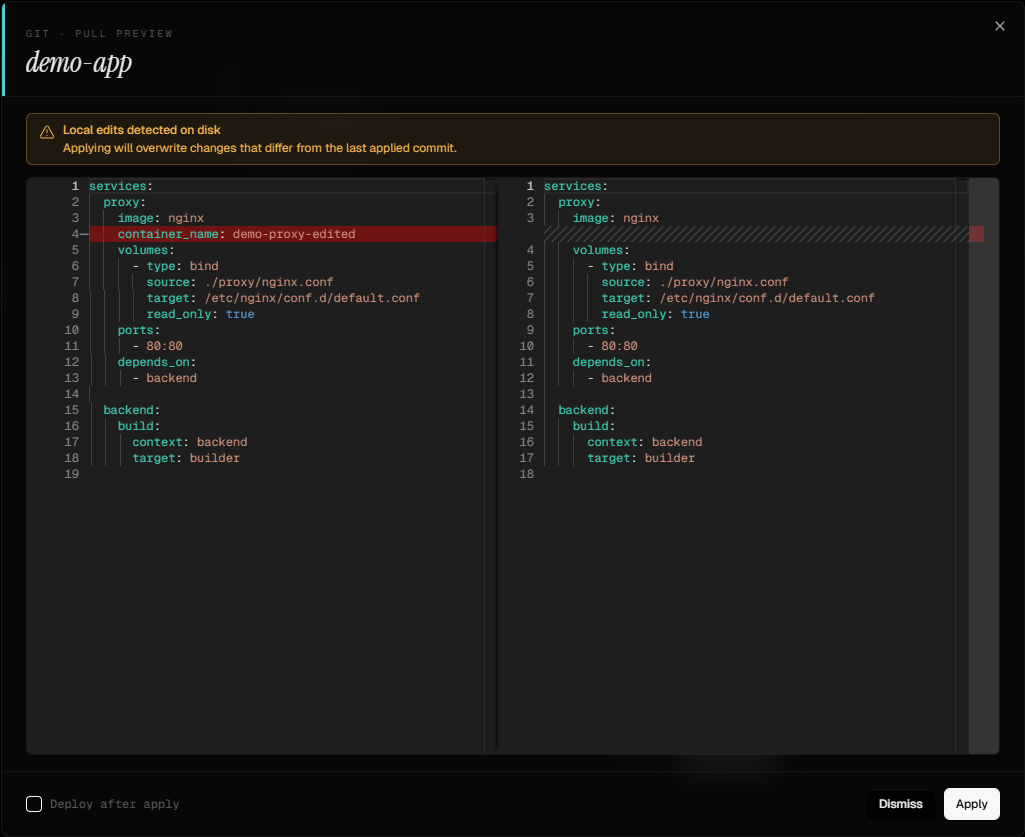
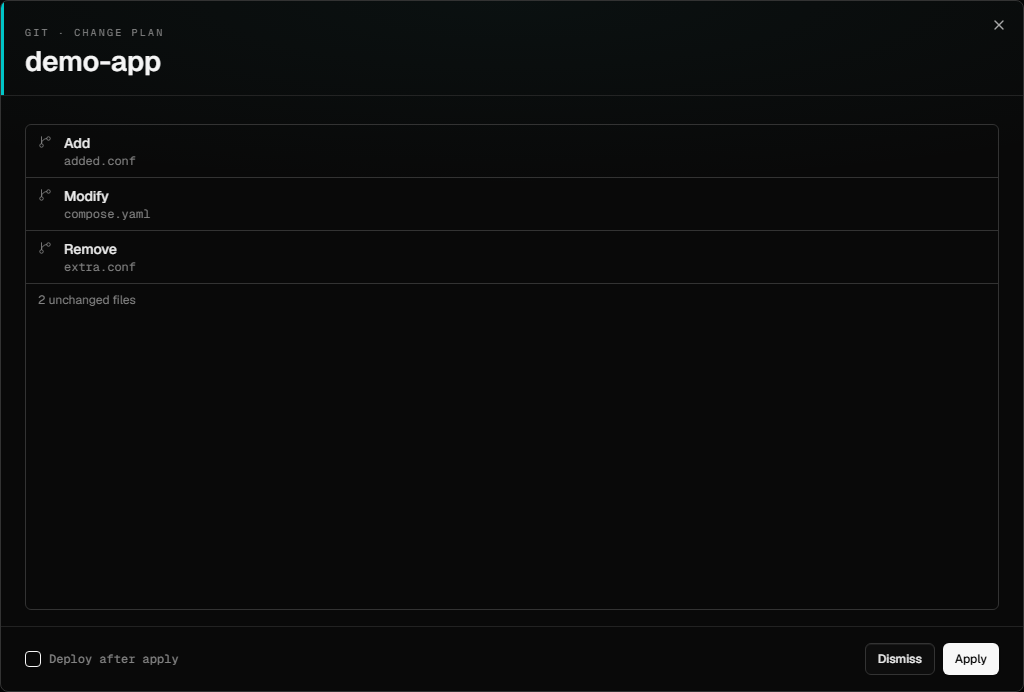
docs(git): capture classified change-plan review screenshots
Replace the old Monaco pull-preview images with the classified operation list used by Apply.

diff --git a/e2e/screenshots.spec.ts b/e2e/screenshots.spec.ts
@@ -10,7 +10,7 @@
  */
 import * as fs from 'fs';
 import * as path from 'path';
-import { test } from '@playwright/test';
+import { expect, test, type Page } from '@playwright/test';
 import { loginAs } from './helpers';
 
 const DOCS_IMAGES = path.resolve(__dirname, '../docs/images');
@@ -50,4 +50,145 @@ test('resources', async ({ page }) => {
   await page.getByRole('button', { name: /resources/i }).click();
   await page.waitForTimeout(800);
   await page.screenshot({ path: path.join(DOCS_IMAGES, 'resources.png'), fullPage: true });
+});
+
+function emptyCounts() {
+  return {
+    add: 0, modify: 0, delete: 0, rename: 0, unchanged: 0,
+    localModified: 0, localMissing: 0, typeChanged: 0, unmanagedCollision: 0, invocation: 0,
+  };
+}
+
+function linkedSource(stackName: string) {
+  return {
+    id: 1,
+    stack_name: stackName,
+    repo_url: 'https://github.com/example/compose.git',
+    branch: 'main',
+    compose_path: 'compose.yaml',
+    compose_paths: ['compose.yaml'],
+    sync_env: false,
+    env_path: null,
+    auth_type: 'none',
+    has_token: false,
+    auto_apply_on_webhook: false,
+    auto_deploy_on_apply: false,
+    last_applied_commit_sha: '1111111111111111111111111111111111111111',
+    pending_commit_sha: null,
+    pending_fetched_at: null,
+    created_at: 0,
+    updated_at: 0,
+    manifest_state: 'active',
+    manifest: null,
+  };
+}
+
+async function createStack(page: Page, stackName: string) {
+  await page.evaluate(async (name) => {
+    await fetch(`/api/stacks/${name}`, { method: 'DELETE', credentials: 'include' }).catch(() => {});
+    await fetch('/api/stacks', {
+      method: 'POST',
+      headers: { 'Content-Type': 'application/json' },
+      credentials: 'include',
+      body: JSON.stringify({ stackName: name }),
+    });
+  }, stackName);
+}
+
+async function stubGitSourceAndPull(page: Page, stackName: string, pullBody: unknown) {
+  await page.route('**/git-source/pull', async (route) => {
+    await route.fulfill({
+      status: 200,
+      contentType: 'application/json',
+      body: JSON.stringify(pullBody),
+    });
+  });
+  await page.route(new RegExp(`/api/stacks/${stackName}/git-source$`), async (route) => {
+    if (route.request().method() === 'GET') {
+      await route.fulfill({
+        status: 200,
+        contentType: 'application/json',
+        body: JSON.stringify(linkedSource(stackName)),
+      });
+      return;
+    }
+    await route.continue();
+  });
+}
+
+async function openStubbedChangePlan(page: Page, stackName: string) {
+  await page.getByRole('button', { name: 'Create Stack' }).waitFor({ timeout: 15_000 });
+  await page.getByText(stackName).first().click();
+  await page.getByRole('button', { name: /Git Source/i }).click();
+  await expect(page.getByRole('dialog').getByRole('heading', { name: /git source/i })).toBeVisible();
+  await page.getByRole('button', { name: /Pull now/i }).click();
+  await expect(page.getByTestId('git-plan-op').first()).toBeVisible({ timeout: 10_000 });
+}
+
+test.describe('classified change-plan docs screenshots', () => {
+  test.use({ viewport: { width: 1920, height: 1080 } });
+
+  test('git-sources change plan dialog', async ({ page }) => {
+    await loginAs(page);
+    const stackName = 'demo-app';
+    await createStack(page, stackName);
+    await stubGitSourceAndPull(page, stackName, {
+      commitSha: 'c0ffee12c0ffee12c0ffee12c0ffee12c0ffee12',
+      validation: { ok: true },
+      refusals: [],
+      warnings: [],
+      plan: {
+        blocked: false,
+        counts: { ...emptyCounts(), add: 1, modify: 1, delete: 1, unchanged: 2 },
+        operations: [
+          { path: 'added.conf', op: 'add', role: 'config' },
+          { path: 'compose.yaml', op: 'modify', role: 'compose-primary' },
+          { path: 'extra.conf', op: 'delete', role: 'config' },
+        ],
+        invocation: { candidateChanged: false, liveDiverged: false },
+      },
+      planFingerprint: 'fp-demo-docs',
+    });
+    await page.goto('/');
+    await openStubbedChangePlan(page, stackName);
+    const planDialog = page.getByRole('dialog').filter({ hasText: 'GIT · CHANGE PLAN' });
+    await expect(planDialog).toBeVisible();
+    await planDialog.screenshot({
+      path: path.join(DOCS_IMAGES, 'git-sources', 'diff-dialog.png'),
+    });
+    await page.evaluate(async (name) => {
+      await fetch(`/api/stacks/${name}`, { method: 'DELETE', credentials: 'include' }).catch(() => {});
+    }, stackName);
+  });
+
+  test('tutorial pull change plan dialog', async ({ page }) => {
+    await loginAs(page);
+    const stackName = 'marketing-site';
+    await createStack(page, stackName);
+    await stubGitSourceAndPull(page, stackName, {
+      commitSha: 'a1b2c3da1b2c3da1b2c3da1b2c3da1b2c3da1b2c',
+      validation: { ok: true },
+      refusals: [],
+      warnings: [],
+      plan: {
+        blocked: false,
+        counts: { ...emptyCounts(), modify: 1, unchanged: 0 },
+        operations: [
+          { path: 'compose.yaml', op: 'modify', role: 'compose-primary' },
+        ],
+        invocation: { candidateChanged: false, liveDiverged: false },
+      },
+      planFingerprint: 'fp-marketing-docs',
+    });
+    await page.goto('/');
+    await openStubbedChangePlan(page, stackName);
+    const planDialog = page.getByRole('dialog').filter({ hasText: 'GIT · CHANGE PLAN' });
+    await expect(planDialog).toBeVisible();
+    await planDialog.screenshot({
+      path: path.join(DOCS_IMAGES, 'tutorials', 'connect-a-git-source', 'pull-preview-diff.png'),
+    });
+    await page.evaluate(async (name) => {
+      await fetch(`/api/stacks/${name}`, { method: 'DELETE', credentials: 'include' }).catch(() => {});
+    }, stackName);
+  });
 });
